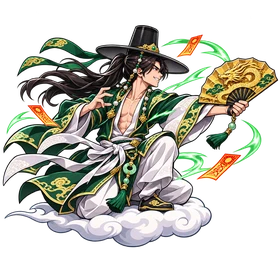
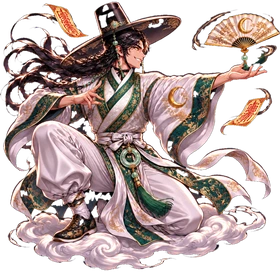
한별 원본 그림 달빛 극화체 교체, 부채 탄을 손 위치에서 발사
Claude-Session: https://claude.ai/code/session_01X3WCR5Skc58i6ujNZho15h

diff --git a/game/geumeum/dokkaebi-shooter.html b/game/geumeum/dokkaebi-shooter.html
@@ -1796,7 +1796,7 @@ function rogueFire(n0) { // 그믐의 탑 축복: 기본 공격
 function fire0() {
   const p = P.power, x = P.x + 14, y = P.y; sfx.shot(); P.muz = 0.07;
   if (P.ch >= 6) { kitFire(P.ch, p, x, y, 1); P.fcd = CH[P.ch].kit.rate; return; }
-  if (P.ch === 0) { const n = p + 1; for (let i = 0; i < n; i++) { const a = (i - (n - 1) / 2) * 0.09; ps(x, y, Math.cos(a) * 560, Math.sin(a) * 560, 4, 1, 0); } P.fcd = 0.11; }
+  if (P.ch === 0) { const n = p + 1; for (let i = 0; i < n; i++) { const a = (i - (n - 1) / 2) * 0.09; ps(x + 8, y - 13, Math.cos(a) * 560, Math.sin(a) * 560, 4, 1, 0); } P.fcd = 0.11; }
   else if (P.ch === 1) { for (let i = 0; i < p; i++) ps(x, y + (i - (p - 1) / 2) * 7, 760, 0, 3, 1.5, 1); P.fcd = 0.09; }
   else if (P.ch === 2) { ps(x, y, 430, 0, 7, 2.2 + p * 1.4, 2); if (p >= 3) { ps(x, y, 400, -90, 4, 1.5, 0); ps(x, y, 400, 90, 4, 1.5, 0); } P.fcd = 0.16; }
   else if (P.ch === 4) { ps(x, y, 400, 0, 8, 2.6 + p * 1.5, 5); if (p >= 2) { ps(x, y, 380, -70, 5, 1.2, 5); ps(x, y, 380, 70, 5, 1.2, 5); } P.fcd = 0.19; } // 불가사리: 쇠공
@@ -2626,7 +2626,7 @@ function draw() {
     if (P.power >= 4 && P.deadT <= 0) { ctx.globalCompositeOperation = 'lighter'; glow(CH[P.ch].glow || 'gold', P.x, P.y, 34 + Math.sin(G.time * 5) * 4, 0.35); ctx.globalCompositeOperation = 'source-over'; } // 힘 최대: 은은한 기운
     if (G.awake > 0) drawAwakeP();
     else if (!(P.inv > 0 && Math.floor(G.time * 16) % 2)) drawPlayer(P.x, P.y, P.ch);
-    if (P.muz > 0) { ctx.globalCompositeOperation = 'lighter'; glow(CH[P.ch].glow, P.x + 24, P.y, 14 + P.muz * 220, 0.9); ctx.globalCompositeOperation = 'source-over'; }
+    if (P.muz > 0) { ctx.globalCompositeOperation = 'lighter'; glow(CH[P.ch].glow, P.x + (P.ch === 0 ? 26 : 24), P.y - (P.ch === 0 ? 13 : 0), 14 + P.muz * 220, 0.9); ctx.globalCompositeOperation = 'source-over'; }
     { const g = Math.max(0, P.graze || 0) / 0.25; ctx.globalCompositeOperation = 'lighter'; glow('jade', P.x, P.y, 9 + g * 8, 0.5); ctx.globalCompositeOperation = 'source-over'; ctx.fillStyle = '#fff'; circ(P.x, P.y, 3 + g * 2); } // 맞는 곳(흰 점): 테두리 없이 작은 빛점
     if (P.charge > 0.12) { const full = P.charge >= chgT(); ctx.globalCompositeOperation = 'lighter'; glow(CH[P.ch].glow, P.x, P.y, 24 + P.charge * 34, 0.55); ctx.globalCompositeOperation = 'source-over'; ctx.strokeStyle = full ? '#ffe27a' : 'rgba(255,255,255,.7)'; ctx.lineWidth = full ? 3 : 2; ctx.beginPath(); ctx.arc(P.x, P.y, full ? 20 + Math.sin(G.time * 20) * 2 : 30 - P.charge * 16, -Math.PI / 2, -Math.PI / 2 + TAU * Math.min(1, P.charge / 0.6)); ctx.stroke(); }
   }

diff --git a/game/geumeum/README.md b/game/geumeum/README.md
@@ -325,3 +325,7 @@
 - ② 보조: 1.5초마다 가까운 적 4마리에 일월 표식 → 1초 뒤 터짐.
 - ③ 스킬: 해 원반 던지기(꿰뚫고 화면 끝에서 돌아옴, 닿는 탄 제거).
 - ④ 끝: 해 원반이 커지며 화면이 밝아지고 화면 전체 적을 태움. 수치는 `AWK_SO`.
+
+### 한별 원본 그림 달빛 극화체 교체
+- `hp0`(게임 그림)·`hc0x`(컷인)를 달빛 극화체로 교체. 부채는 쥐지 않고 손바닥 위에 떠 있음.
+- 그에 맞춰 한별 기본 탄과 쏠 때 빛이 손 위치(오른쪽 위 +8, -13)에서 나가게 조정.
